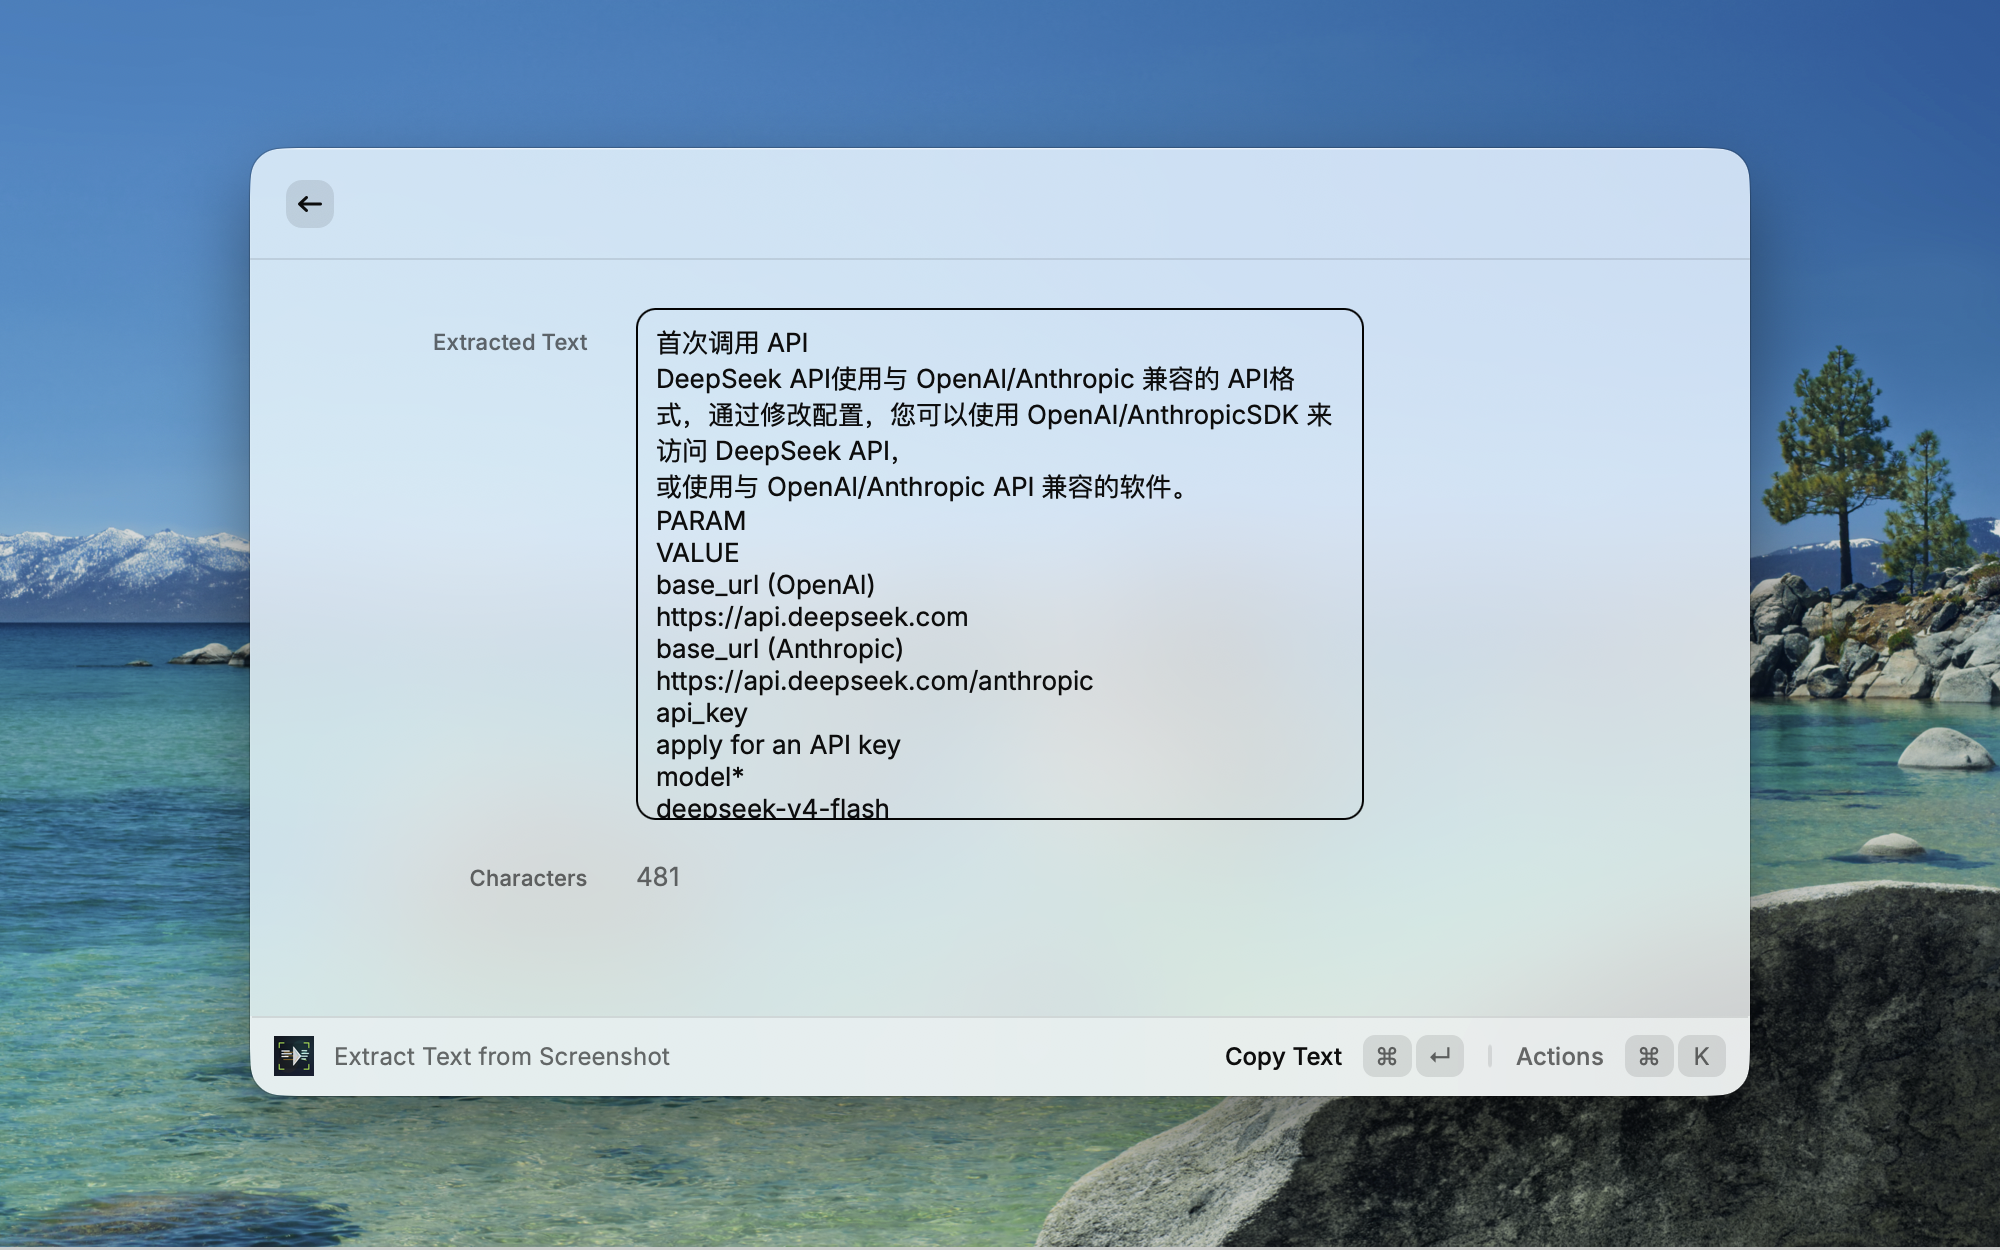
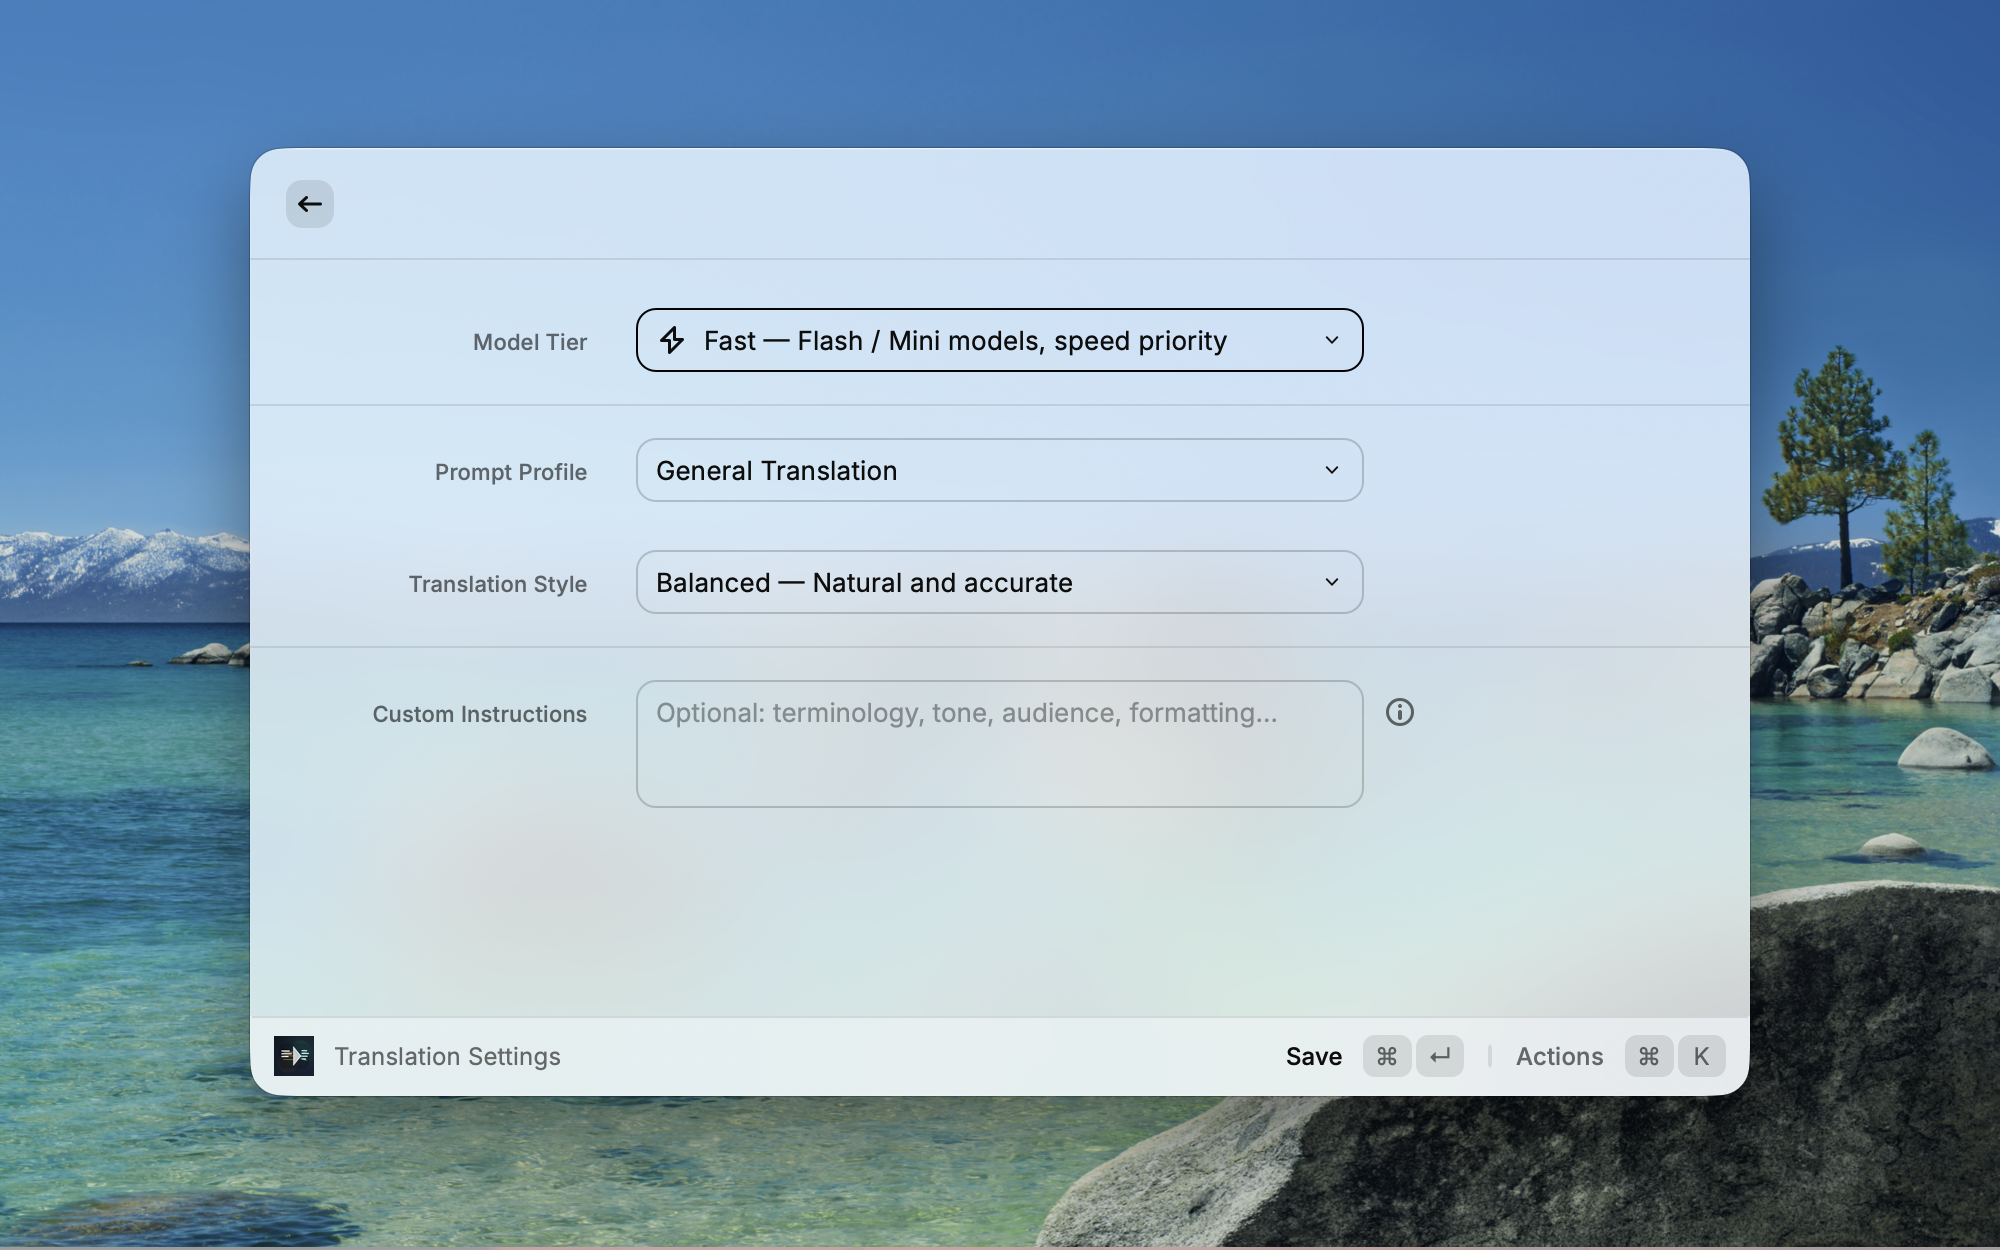
feat: add OpenAI Vision OCR, fix window-blocks-capture, and dedupe UI constants
Add OpenAI Vision as a fifth OCR engine option — sends screenshots as
base64 to the Chat Completions API with vision content blocks, handles
reasoning-model token params, and surfaces content-filter rejections.
Includes an optional OpenAI OCR Model preference for using a different
model than translation.

Fix the long-standing window-blocks-capture problem: screenshot commands
now closeMainWindow before screencapture runs, then bring Raycast back
to foreground via osascript after OCR completes (success, failure, or
cancel).  Also fix the ⌘R shortcut collision in Screenshot Translate
(Source retake vs Results retry), the missing "OpenAI Vision" label in
Screenshot OCR's engine indicator, and the "0 chars" nav title flash.

Extract shared UI constants (PROVIDER_ICONS, PROMPT_PROFILE_LABELS,
STYLE_LABELS, quoted, normalizeInputText) into ui-constants.ts, removing
~96 lines of duplication across translate, screenshot-translate,
rewrite-coach, and history.

diff --git a/src/screenshot-translate.tsx b/src/screenshot-translate.tsx
@@ -1,6 +1,7 @@
 import {
   Action,
   ActionPanel,
+  closeMainWindow,
   Color,
   Icon,
   LaunchType,
@@ -10,6 +11,7 @@ import {
   openExtensionPreferences,
   showToast,
 } from "@raycast/api";
+import { execFile } from "node:child_process";
 import { useEffect, useMemo, useRef, useState } from "react";
 import { addHistoryEntry } from "./history-store";
 import { LANGUAGE_CHOICES, getLanguageTitle, resolveTargetLanguage } from "./languages";
@@ -77,12 +79,15 @@ export default function Command() {
     setResults([]);
     setIsLoading(true);
 
+    await closeMainWindow({ clearRootSearch: false });
+
     try {
       const text = await recognizeScreenshotText(preferences);
 
       if (captureId !== captureSequence.current) return;
 
       if (!text) {
+        activateRaycast();
         setOcrFailed(true);
         setOcrTitle("No text detected");
         setOcrError("The capture had no recognizable text. Choose Retake Screenshot to try again.");
@@ -90,6 +95,7 @@ export default function Command() {
         return;
       }
 
+      activateRaycast();
       setSourceText(text);
       setOcrDone(true);
       await showToast({
@@ -100,6 +106,7 @@ export default function Command() {
     } catch (error) {
       if (captureId !== captureSequence.current) return;
 
+      activateRaycast();
       setIsLoading(false);
       const description = await reportOcrError(error);
       setOcrFailed(true);
@@ -448,6 +455,10 @@ function ItemActions(p: {
       </ActionPanel.Section>
     </ActionPanel>
   );
+}
+
+function activateRaycast(): void {
+  execFile("/usr/bin/osascript", ["-e", 'tell application "Raycast" to activate'], { timeout: 3000 }, () => undefined);
 }
 
 function preview(t: string): string {

diff --git a/src/screenshot-ocr.tsx b/src/screenshot-ocr.tsx
@@ -2,6 +2,7 @@ import {
   Action,
   ActionPanel,
   Clipboard,
+  closeMainWindow,
   Form,
   Icon,
   LaunchType,
@@ -10,6 +11,7 @@ import {
   showToast,
   Toast,
 } from "@raycast/api";
+import { execFile } from "node:child_process";
 import { useEffect, useMemo, useRef, useState } from "react";
 import { autoParagraph, recognizeScreenshotText, stripLineBreaks } from "./ocr-engines";
 import { openScreenRecordingSettings, reportOcrError } from "./ocr-errors";
@@ -40,11 +42,14 @@ export default function Command() {
     setNeedsPermission(false);
     setAutoCopied(false);
 
+    await closeMainWindow({ clearRootSearch: false });
+
     try {
       const result = await recognizeScreenshotText(preferences);
 
       if (captureId !== captureSequence.current) return;
 
+      activateRaycast();
       setIsLoading(false);
       if (!result) {
         setNotice("No text detected. Press ⌘R to retake.");
@@ -73,6 +78,7 @@ export default function Command() {
     } catch (error) {
       if (captureId !== captureSequence.current) return;
 
+      activateRaycast();
       setIsLoading(false);
       const description = await reportOcrError(error);
       setNeedsPermission(description.isPermission);
@@ -191,6 +197,10 @@ export default function Command() {
       <Form.Description title="Engine" text={ocrEngineTitle(preferences.ocrEngine)} />
     </Form>
   );
+}
+
+function activateRaycast(): void {
+  execFile("/usr/bin/osascript", ["-e", 'tell application "Raycast" to activate'], { timeout: 3000 }, () => undefined);
 }
 
 function countWords(text: string): number {

diff --git a/README.md b/README.md
@@ -64,6 +64,8 @@ Screenshot features can use several OCR paths:
 - **Local macOS Vision**: the default local OCR path.
 - **Tesseract Local**: optional local OCR, for users who have Tesseract installed.
 - **Baidu OCR API**: optional API OCR with language hints, general or accurate endpoint, and paragraph grouping.
+- **Google Gemini (multimodal)**: optional API OCR that reuses the configured Gemini key and multimodal model.
+- **OpenAI Vision (multimodal)**: optional API OCR that reuses the configured OpenAI key, with a separate OCR model override when needed.
 
 If an API OCR engine fails and fallback is enabled, the extension tries local macOS Vision on the same screenshot. OCR is still imperfect, so the screenshot translation flow lets you review and edit extracted text before translating.
 
@@ -112,7 +114,8 @@ Useful in-command shortcuts include:
 | `Cmd+S` | Read translation or rewritten text aloud. |
 | `Cmd+Opt+S` | Read aloud slowly. |
 | `Cmd+Shift+S` | Read source text aloud. |
-| `Cmd+R` | Retry translation or retake screenshot. |
+| `Cmd+R` | Retry translation, or retake in `Screenshot OCR`. |
+| `Cmd+Shift+R` | Retake in `Screenshot Translate`. |
 | `Cmd+L` | Strip line breaks in `Screenshot OCR`. |
 | `Cmd+Shift+P` | Auto paragraph in `Screenshot OCR`. |
 | `Cmd+Enter` | Paste translation or translate OCR text. |

diff --git a/CHANGELOG.md b/CHANGELOG.md
@@ -20,6 +20,7 @@
 - Hardened OCR retry state, auto-paragraph formatting, TTS playback, and provider configuration error handling.
 - Fixed Kimi Code defaults, OCR helper build portability, screenshot capture error reporting, and numeric preference fallbacks.
 - Added a Google Gemini multimodal OCR engine that reuses the configured Gemini key, with automatic fallback to local Vision.
+- Added an OpenAI Vision OCR engine that reuses the configured OpenAI key, with an optional OCR-specific model override.
 - Added Auto-Copy: the Screenshot OCR result is copied to the clipboard automatically, with a copied/word-count confirmation (toggle in preferences).
 - Added a Clear Text action to Screenshot OCR for discarding a result without further steps.
 - Rebuilt Auto Paragraph so wrapped OCR lines reflow into real paragraphs instead of one paragraph per line, with CJK-aware joining and de-hyphenation.
@@ -29,3 +30,4 @@
 - Fell back to clipboard text when nothing is selected in Translate and Rewrite & Coach, and clarified the no-selection guidance for the paste-in-place commands.
 - Expanded the target language list (Arabic, Hindi, Vietnamese, Thai, Indonesian, Turkish, Dutch, Polish).
 - Serialized history writes so rapid copies no longer drop entries, and cleaned up leftover TTS audio files.
+- Refreshed Store screenshots for the current Screenshot OCR, Translate, and Translation Settings commands.